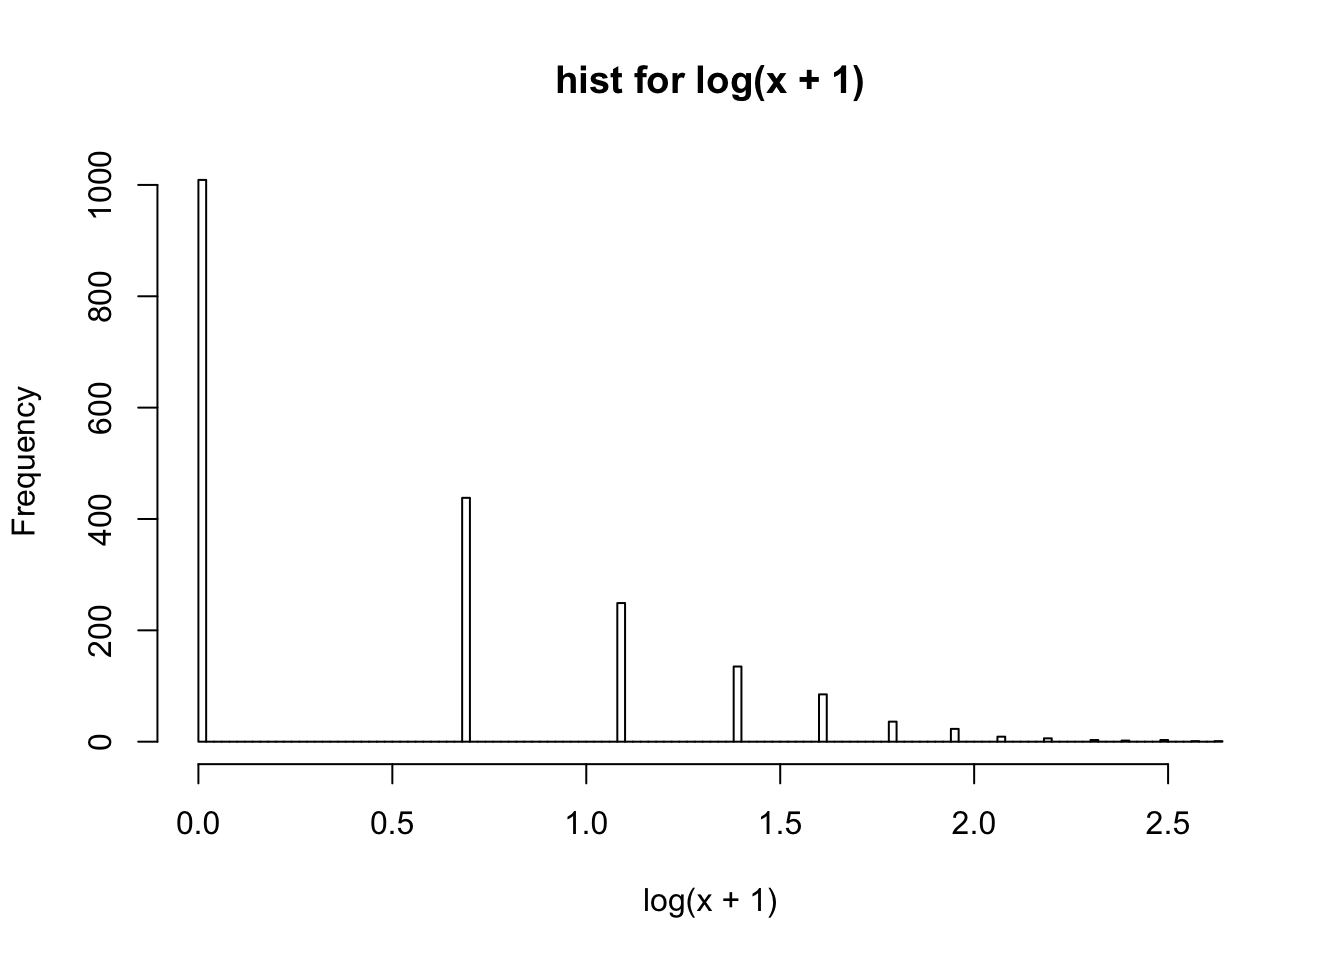
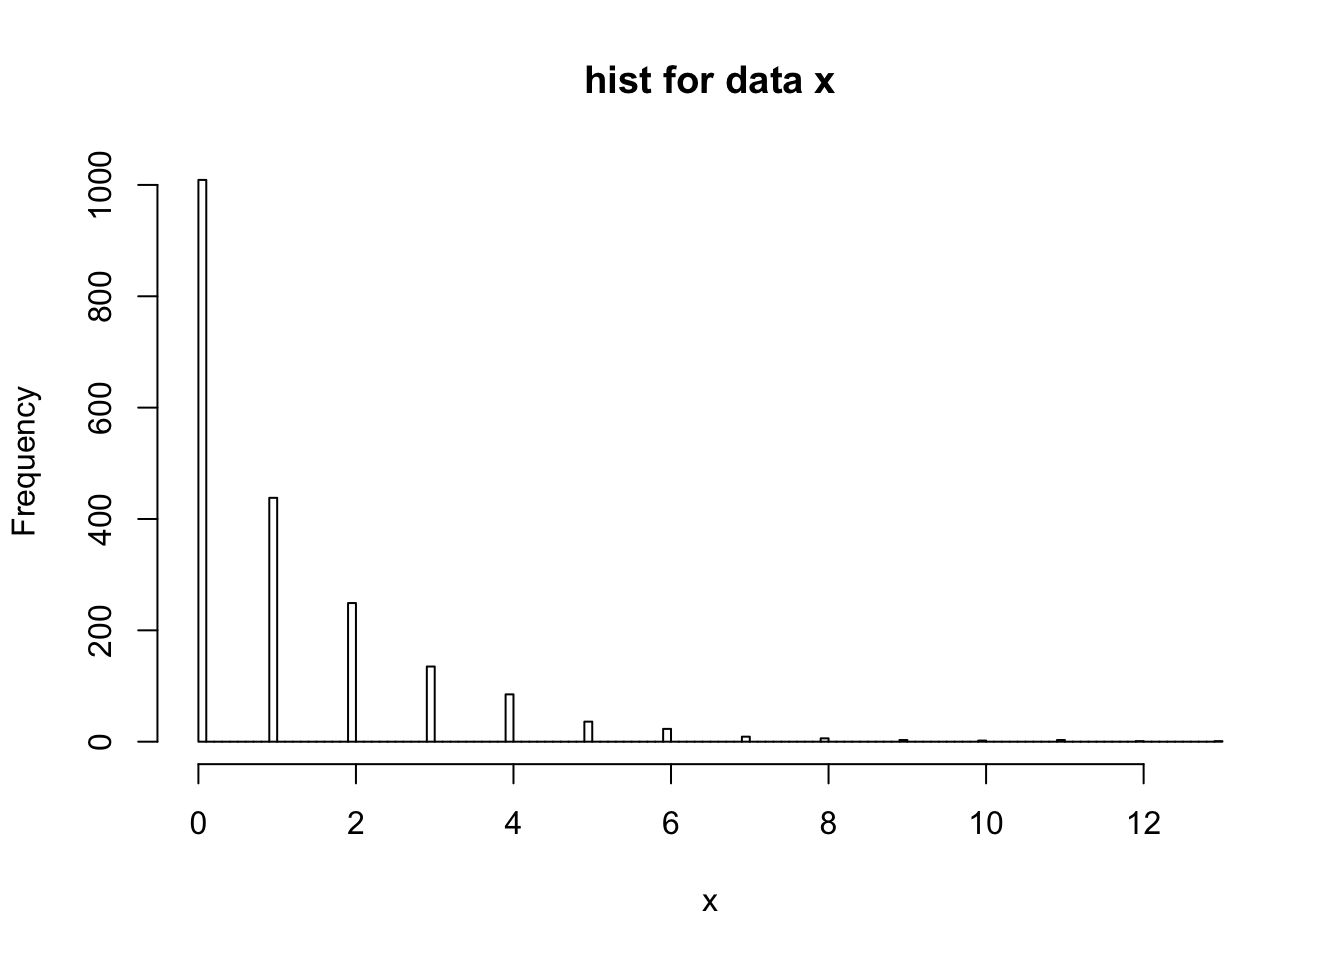
Build site.

diff --git a/docs/vignette_ebpm.html b/docs/vignette_ebpm.html
@@ -445,7 +445,7 @@ div.section {
 <div class="tab-content">
 <div id="summary" class="tab-pane fade in active">
 <p>
-<strong>Last updated:</strong> 2019-10-22
+<strong>Last updated:</strong> 2019-11-08
 </p>
 <p>
 <strong>Checks:</strong> <span class="glyphicon glyphicon-ok text-success" aria-hidden="true"></span> 7 <span class="glyphicon glyphicon-exclamation-sign text-danger" aria-hidden="true"></span> 0
@@ -455,7 +455,7 @@ div.section {
 </p>
 <p>
 This reproducible <a href="http://rmarkdown.rstudio.com">R Markdown</a> analysis was created with <a
-  href="https://github.com/jdblischak/workflowr">workflowr</a> (version 1.4.0). The <em>Checks</em> tab describes the reproducibility checks that were applied when the results were created. The <em>Past versions</em> tab lists the development history.
+  href="https://github.com/jdblischak/workflowr">workflowr</a> (version 1.5.0). The <em>Checks</em> tab describes the reproducibility checks that were applied when the results were created. The <em>Past versions</em> tab lists the development history.
 </p>
 <hr>
 </div>
@@ -536,10 +536,10 @@ This reproducible <a href="http://rmarkdown.rstudio.com">R Markdown</a> analysis
 <div class="panel panel-default">
 <div class="panel-heading">
 <p class="panel-title">
-<a data-toggle="collapse" data-parent="#workflowr-checks" href="#strongRepositoryversionstrongahrefhttpsgithubcomzihao12ebpmfdemotree08b994838840b133639d3caaf71fe3b153224ae2targetblank08b9948a"> <span class="glyphicon glyphicon-ok text-success" aria-hidden="true"></span> <strong>Repository version:</strong> <a href="https://github.com/zihao12/ebpmf_demo/tree/08b994838840b133639d3caaf71fe3b153224ae2" target="_blank">08b9948</a> </a>
+<a data-toggle="collapse" data-parent="#workflowr-checks" href="#strongRepositoryversionstrongahrefhttpsgithubcomzihao12ebpmfdemotree884360c5efaa624656be6296f134ec8658a5aab7targetblank884360ca"> <span class="glyphicon glyphicon-ok text-success" aria-hidden="true"></span> <strong>Repository version:</strong> <a href="https://github.com/zihao12/ebpmf_demo/tree/884360c5efaa624656be6296f134ec8658a5aab7" target="_blank">884360c</a> </a>
 </p>
 </div>
[2 lines of base64/hex data omitted]
 <div class="panel-body">
 <p>
 Great! You are using Git for version control. Tracking code development and connecting the code version to the results is critical for reproducibility. The version displayed above was the version of the Git repository at the time these results were generated. <br><br> Note that you need to be careful to ensure that all relevant files for the analysis have been committed to Git prior to generating the results (you can use <code>wflow_publish</code> or <code>wflow_git_commit</code>). workflowr only checks the R Markdown file, but you know if there are other scripts or data files that it depends on. Below is the status of the Git repository when the results were generated:
@@ -550,24 +550,47 @@ Ignored files:
     Ignored:    .Rproj.user/
 
 Untracked files:
+    Untracked:  Untitled.Rmd
+    Untracked:  Untitled.html
     Untracked:  analysis/.ipynb_checkpoints/
+    Untracked:  analysis/Experiment_ebpmf_simple.Rmd
+    Untracked:  analysis/draft.Rmd
+    Untracked:  analysis/ebpm_gamma_mixture_experiment.Rmd
     Untracked:  analysis/ebpmf_demo.Rmd
     Untracked:  analysis/ebpmf_rank1_demo2.Rmd
+    Untracked:  analysis/plot_g.Rmd
     Untracked:  analysis/softmax_experiments.ipynb
+    Untracked:  code/misc.R
+    Untracked:  data/Compare_ebpmf_nmf2_out
+    Untracked:  data/Compare_ebpmf_nmf2_out_ver2.Rds
+    Untracked:  data/ebpm_fail.Rds
+    Untracked:  data/nmf_sparse3_elbo.Rds
+    Untracked:  data/nmf_sparse3_loadings.Rds
+    Untracked:  data/nmf_sparse3_summary.Rds
+    Untracked:  data/nmf_sparse6_fit_ebpmf_re_nsnmf.Rds
+    Untracked:  data/nmf_sparse6_fit_pg_from_truth.Rds
+    Untracked:  data/nmf_sparse7_data.rds
+    Untracked:  data/nmf_sparse7_fit_em.Rds
+    Untracked:  data/nmf_sparse7_fit_gamma_mix.Rds
+    Untracked:  data/nmf_sparse7_fit_gamma_mix_random.Rds
+    Untracked:  data/nmf_sparse7_fit_gamma_mix_uniform_weight.Rds
     Untracked:  data/trash/
-    Untracked:  docs/figure/Experiment_ebpmf_rankk.Rmd/
-    Untracked:  docs/figure/test.Rmd/
-    Untracked:  docs/figure/vignette_ebpm2.Rmd/
     Untracked:  verbose_log_1571583163.21966.txt
     Untracked:  verbose_log_1571583324.71036.txt
     Untracked:  verbose_log_1571583741.94199.txt
     Untracked:  verbose_log_1571588102.40356.txt
 
 Unstaged changes:
-    Modified:   analysis/debug_ebpmf_exponential_mixture.Rmd
-    Modified:   analysis/ebpmf_rank1_demo.Rmd
-    Modified:   analysis/ebpmf_rankk_demo.Rmd
+    Modified:   analysis/Compare_ebpmf_nmf.Rmd
+    Modified:   analysis/Compare_ebvaepm_ebpm.Rmd
+    Modified:   analysis/Experiment_ebpmf_rank1.Rmd
+    Modified:   analysis/ebpm_demo.Rmd
+    Modified:   analysis/nmf_sparse.Rmd
+    Modified:   analysis/nmf_sparse2.Rmd
+    Modified:   analysis/nmf_sparse3.Rmd
+    Modified:   analysis/nmf_sparse6.Rmd
     Modified:   analysis/softmax_experiments.Rmd
+    Modified:   data/Compare_ebpmf_nmf2_out.Rds
 
 </code></pre>
 <p>
@@ -606,6 +629,40 @@ Message
 </tr>
 </thead>
 <tbody>
+<tr>
+<td>
+Rmd
+</td>
+<td>
+<a href="https://github.com/zihao12/ebpmf_demo/blob/884360c5efaa624656be6296f134ec8658a5aab7/analysis/vignette_ebpm.Rmd" target="_blank">884360c</a>
+</td>
+<td>
+zihao12
+</td>
+<td>
+2019-11-08
+</td>
+<td>
+update vignette ebpm
+</td>
+</tr>
+<tr>
+<td>
+html
+</td>
+<td>
+<a href="https://rawcdn.githack.com/zihao12/ebpmf_demo/3814bfbcf041468e9eb3906ec713140eff330b69/docs/vignette_ebpm.html" target="_blank">3814bfb</a>
+</td>
+<td>
+zihao12
+</td>
+<td>
+2019-10-22
+</td>
+<td>
+Build site.
+</td>
+</tr>
 <tr>
 <td>
 Rmd
@@ -674,9 +731,8 @@ vignette for ebpm
 \end{align}
 \]</span> Our goal is to estimate <span class="math inline">\(\hat{g}\)</span> (MLE), then compute posterior <span class="math inline">\(p(\lambda_i | x_i, \hat{g})\)</span>. Here I use mixture of exponential as prior family.</p>
 <p>See model details and derivations in <a href="https://github.com/stephenslab/ebpm/blob/master/derivations/ebpm.pdf" class="uri">https://github.com/stephenslab/ebpm/blob/master/derivations/ebpm.pdf</a></p>
-<pre class="r"><code>devtools::load_all(&quot;../ebpm&quot;)</code></pre>
-<pre><code>Loading ebpm</code></pre>
-<pre class="r"><code>set.seed(123)
+<pre class="r"><code>library(ebpm)
+set.seed(123)
 library(ebpm)
 library(ggplot2)
 library(gtools)
@@ -686,12 +742,14 @@ require(gridExtra)</code></pre>
 <div id="experiment-setup" class="section level2">
 <h2>experiment setup</h2>
 <p>I simulate data from the mixture of exponential, and compare fitting the poisson mean problem with MLE (<span class="math inline">\(\hat{\lambda}^{mle}_i = \frac{x_i}{s_i}\)</span>), and <code>ebpm_exponential_mixture</code> with different options.<br />
-For <code>ebpm</code>, the options are: * <code>fit_true_g</code>: use the true <span class="math inline">\(g\)</span><br />
-* <code>fit_true_scale</code>: use the true mixture components to estimate <span class="math inline">\(\hat{g}\)</span> * <code>fit_est_scale</code>: estimate mixture components from data, then estimate <span class="math inline">\(\hat{g}\)</span></p>
+For <code>ebpm</code>, the options are:<br />
+* <code>fit_true_g</code>: use the true <span class="math inline">\(g\)</span><br />
+* <code>fit_true_scale</code>: use the true mixture components to estimate <span class="math inline">\(\hat{g}\)</span><br />
+* <code>fit_est_scale</code>: estimate mixture components from data, then estimate <span class="math inline">\(\hat{g}\)</span></p>
 <pre class="r"><code>## simulate data
 n = 2000
 sim = ebpm::simulate_pois_expmix(n, seed = 123)
-hist(log(sim$x+1), breaks = 100, xlab = &quot;log(x + 1)&quot;, main = &quot;hist for log(x + 1)&quot;)</code></pre>
+hist(sim$x, breaks = 100, xlab = &quot;x&quot;, main = &quot;hist for data x&quot;)</code></pre>
 <p><img src="figure/vignette_ebpm.Rmd/unnamed-chunk-2-1.png" width="672" style="display: block; margin: auto;" /></p>
 <p>
 <button type="button" class="btn btn-default btn-xs btn-workflowr btn-workflowr-fig" data-toggle="collapse" data-target="#fig-unnamed-chunk-2-1">
@@ -715,6 +773,17 @@ Date
 </tr>
 </thead>
 <tbody>
+<tr>
+<td>
+<a href="https://github.com/zihao12/ebpmf_demo/blob/3814bfbcf041468e9eb3906ec713140eff330b69/docs/figure/vignette_ebpm.Rmd/unnamed-chunk-2-1.png" target="_blank">3814bfb</a>
+</td>
+<td>
+zihao12
+</td>
+<td>
+2019-10-22
+</td>
+</tr>
 <tr>
 <td>
 <a href="https://github.com/zihao12/ebpmf_demo/blob/8abb68410decc62de063f29c4a2da06b61750e63/docs/figure/vignette_ebpm.Rmd/unnamed-chunk-2-1.png" target="_blank">8abb684</a>
@@ -810,6 +879,17 @@ Date
 <tbody>
 <tr>
 <td>
+<a href="https://github.com/zihao12/ebpmf_demo/blob/3814bfbcf041468e9eb3906ec713140eff330b69/docs/figure/vignette_ebpm.Rmd/unnamed-chunk-4-1.png" target="_blank">3814bfb</a>
+</td>
+<td>
+zihao12
+</td>
+<td>
+2019-10-22
+</td>
+</tr>
+<tr>
+<td>
 <a href="https://github.com/zihao12/ebpmf_demo/blob/8abb68410decc62de063f29c4a2da06b61750e63/docs/figure/vignette_ebpm.Rmd/unnamed-chunk-4-1.png" target="_blank">8abb684</a>
 </td>
 <td>
@@ -851,6 +931,17 @@ Date
 </tr>
 </thead>
 <tbody>
+<tr>
+<td>
+<a href="https://github.com/zihao12/ebpmf_demo/blob/3814bfbcf041468e9eb3906ec713140eff330b69/docs/figure/vignette_ebpm.Rmd/unnamed-chunk-4-2.png" target="_blank">3814bfb</a>
+</td>
+<td>
+zihao12
+</td>
+<td>
+2019-10-22
+</td>
+</tr>
 <tr>
 <td>
 <a href="https://github.com/zihao12/ebpmf_demo/blob/8abb68410decc62de063f29c4a2da06b61750e63/docs/figure/vignette_ebpm.Rmd/unnamed-chunk-4-2.png" target="_blank">8abb684</a>
@@ -896,6 +987,17 @@ Date
 <tbody>
 <tr>
 <td>
+<a href="https://github.com/zihao12/ebpmf_demo/blob/3814bfbcf041468e9eb3906ec713140eff330b69/docs/figure/vignette_ebpm.Rmd/unnamed-chunk-4-3.png" target="_blank">3814bfb</a>
+</td>
+<td>
+zihao12
+</td>
+<td>
+2019-10-22
+</td>
+</tr>
+<tr>
+<td>
 <a href="https://github.com/zihao12/ebpmf_demo/blob/8abb68410decc62de063f29c4a2da06b61750e63/docs/figure/vignette_ebpm.Rmd/unnamed-chunk-4-3.png" target="_blank">8abb684</a>
 </td>
 <td>
@@ -909,26 +1011,6 @@ zihao12
 </table>
 </div>
 </div>
-</div>
-<div id="with-outliers" class="section level2">
-<h2>With outliers</h2>
-<p>What if there are outliers in our data? I add a few very numbers to the original data. Let’s see what will <code>ebpm</code> and MLE give us:</p>
-<pre class="r"><code>n_outlier = 10
-sim2 = sim
-sim2$x = c(sim2$x, runif(n_outlier, 1e+4, 1e+5))
-sim2$s = c(sim$s, replicate(n_outlier, 1))
-
-fit2 = ebpm::ebpm_exponential_mixture(x = sim$x, s = sim$s, scale = &quot;estimate&quot;)
-
-## MLE estimate
-tail(sim2$x/sim2$s, n_outlier)</code></pre>
-<pre><code> [1] 92784.87 88839.60 77665.37 54542.54 24372.73 62643.89 96880.65
- [8] 92920.31 80323.68 80200.52</code></pre>
-<pre class="r"><code>## `ebpm` estimate
-tail(fit2$posterior$mean, n_outlier)</code></pre>
-<pre><code> [1] 0.4546687 1.0402662 0.4546687 1.6189692 0.4546687 1.6189692 0.4546687
- [8] 0.4546687 0.4546687 1.0402662</code></pre>
-<p>So <code>ebpm</code> shrinks those abnormally big data towards smaller values.</p>
 <br>
 <p>
 <button type="button" class="btn btn-default btn-workflowr btn-workflowr-sessioninfo" data-toggle="collapse" data-target="#workflowr-sessioninfo" style="display: block;">
@@ -952,28 +1034,20 @@ attached base packages:
 [1] stats     graphics  grDevices utils     datasets  methods   base     
 
 other attached packages:
-[1] gridExtra_2.3   gtools_3.8.1    ggplot2_3.2.1   ebpm_0.0.0.9001
-[5] testthat_2.2.1 
+[1] gridExtra_2.3   gtools_3.8.1    ggplot2_3.2.1   ebpm_0.0.0.9002
 
 loaded via a namespace (and not attached):
- [1] Rcpp_1.0.2          pillar_1.4.2        compiler_3.5.1     
- [4] git2r_0.25.2        workflowr_1.4.0     prettyunits_1.0.2  
- [7] remotes_2.1.0       tools_3.5.1         digest_0.6.21      
-[10] pkgbuild_1.0.3      pkgload_1.0.2       tibble_2.1.3       
-[13] gtable_0.3.0        evaluate_0.14       memoise_1.1.0      
-[16] pkgconfig_2.0.3     rlang_0.4.0         cli_1.1.0          
-[19] rstudioapi_0.10     yaml_2.2.0          xfun_0.8           
-[22] dplyr_0.8.1         withr_2.1.2         stringr_1.4.0      
-[25] knitr_1.25          desc_1.2.0          fs_1.3.1           
-[28] devtools_2.2.1.9000 tidyselect_0.2.5    grid_3.5.1         
-[31] rprojroot_1.3-2     glue_1.3.1          R6_2.4.0           
-[34] processx_3.3.1      rmarkdown_1.13      sessioninfo_1.1.1  
-[37] mixsqp_0.1-121      purrr_0.3.2         callr_3.2.0        
-[40] magrittr_1.5        whisker_0.3-2       scales_1.0.0       
-[43] backports_1.1.5     ps_1.3.0            ellipsis_0.3.0     
-[46] htmltools_0.3.6     usethis_1.5.1       assertthat_0.2.1   
-[49] colorspace_1.4-1    labeling_0.3        stringi_1.4.3      
-[52] lazyeval_0.2.2      munsell_0.5.0       crayon_1.3.4       </code></pre>
+ [1] Rcpp_1.0.2       compiler_3.5.1   pillar_1.4.2     later_0.8.0     
+ [5] git2r_0.26.1     workflowr_1.5.0  tools_3.5.1      digest_0.6.22   
+ [9] evaluate_0.14    tibble_2.1.3     gtable_0.3.0     pkgconfig_2.0.3 
+[13] rlang_0.4.1      yaml_2.2.0       xfun_0.8         withr_2.1.2     
+[17] stringr_1.4.0    dplyr_0.8.1      knitr_1.25       fs_1.3.1        
+[21] rprojroot_1.3-2  grid_3.5.1       tidyselect_0.2.5 glue_1.3.1      
+[25] R6_2.4.0         rmarkdown_1.13   mixsqp_0.2-3     purrr_0.3.2     
+[29] magrittr_1.5     whisker_0.3-2    backports_1.1.5  scales_1.0.0    
+[33] promises_1.0.1   htmltools_0.3.6  assertthat_0.2.1 colorspace_1.4-1
+[37] httpuv_1.5.1     labeling_0.3     stringi_1.4.3    lazyeval_0.2.2  
+[41] munsell_0.5.0    crayon_1.3.4    </code></pre>
 </div>
 </div>
 
